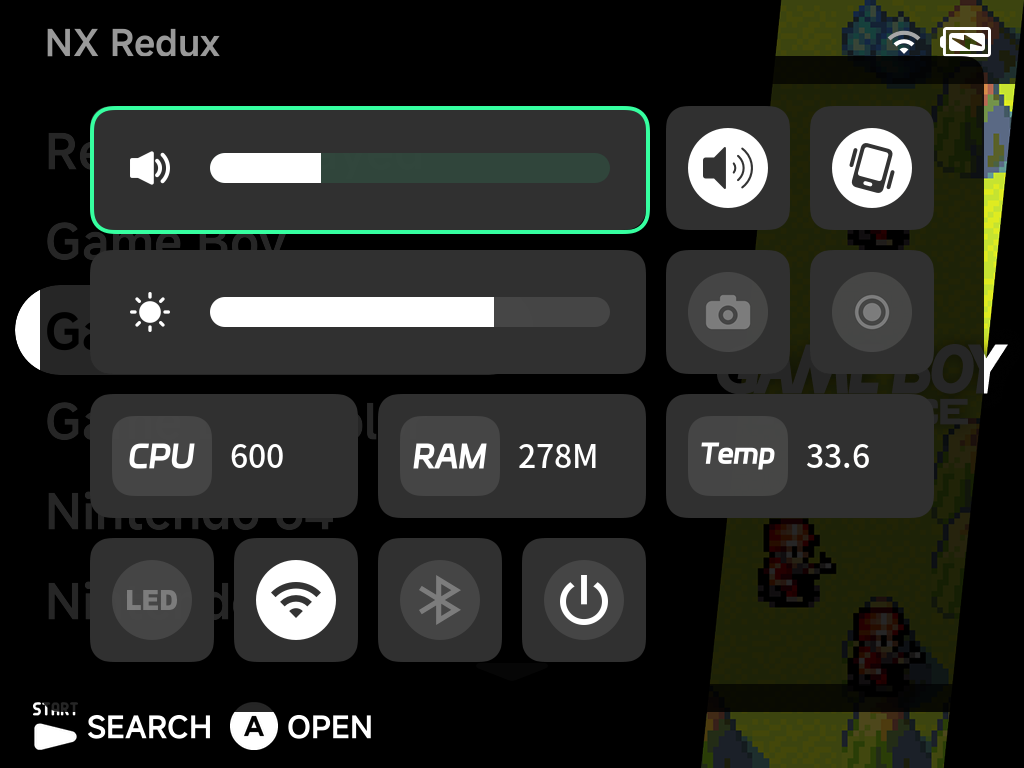
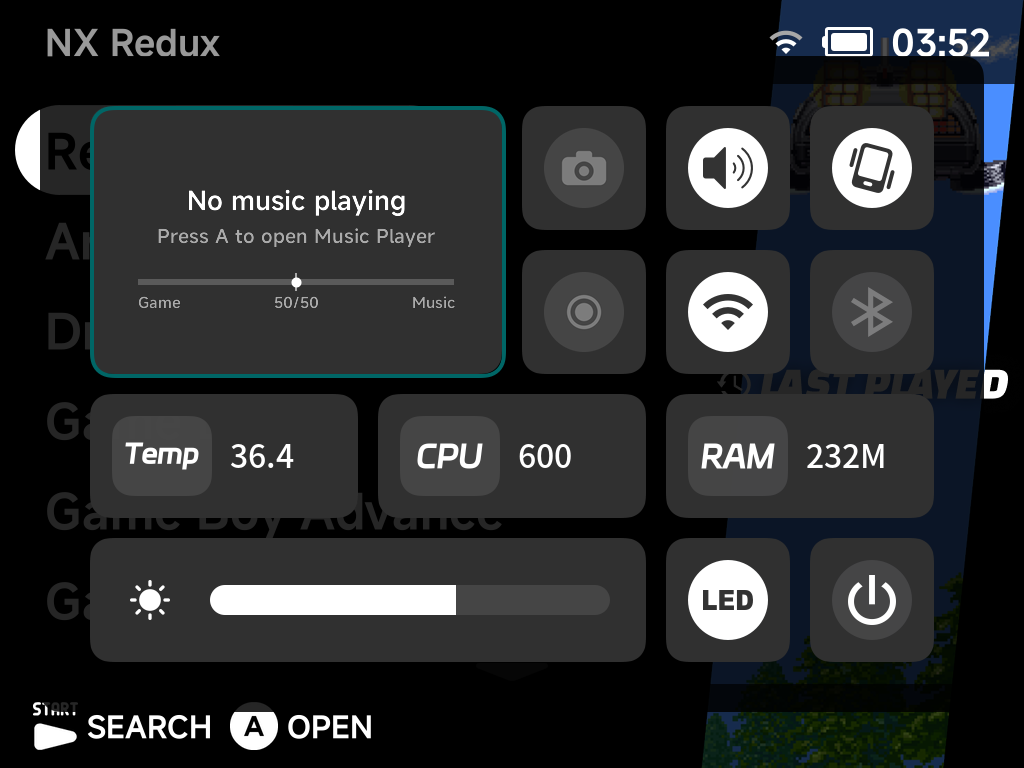
docs: Music widget, speaker mute and a fresh OSD screenshot

diff --git a/docs/guide/osd.md b/docs/guide/osd.md
@@ -12,10 +12,17 @@ The On-Screen Display (OSD) gives quick access to common actions from anywhere
 
 The OSD overlays the screen with a grid of widgets:
 
-- **Mute toggle**, **brightness slider**, and the **Motor** toggle — the
-  master vibration switch. Off silences every vibration on the device: game
-  rumble, the sleep and wake pulses and the shutdown tap. It is remembered
-  across reboots and is on by default.
+- **Music** widget: what the Music Player is playing in the background, with
+  play/pause, previous and next, and a **Game / Music** balance slider (press
+  Down to reach it) that sets how loud games and music are relative to each
+  other. With nothing playing it offers to open the Music Player; the balance
+  stays adjustable either way.
+- **Mute toggle**, **brightness slider**, and the **Motor** toggle. The
+  **Mute** toggle is a speaker mute — it silences the audio output only,
+  independently of the FN switch, and any volume-key press clears it. The
+  **Motor** toggle is the master vibration switch. Off silences every
+  vibration on the device: game rumble, the sleep and wake pulses and the
+  shutdown tap. It is remembered across reboots and is on by default.
 - **Wi-Fi**, **Bluetooth** and **LED** toggles with live state.
 - **Screenshot** and **Screen Recorder** toggles (see below).
 - System monitors: CPU frequency, memory usage and temperature (plus fan
